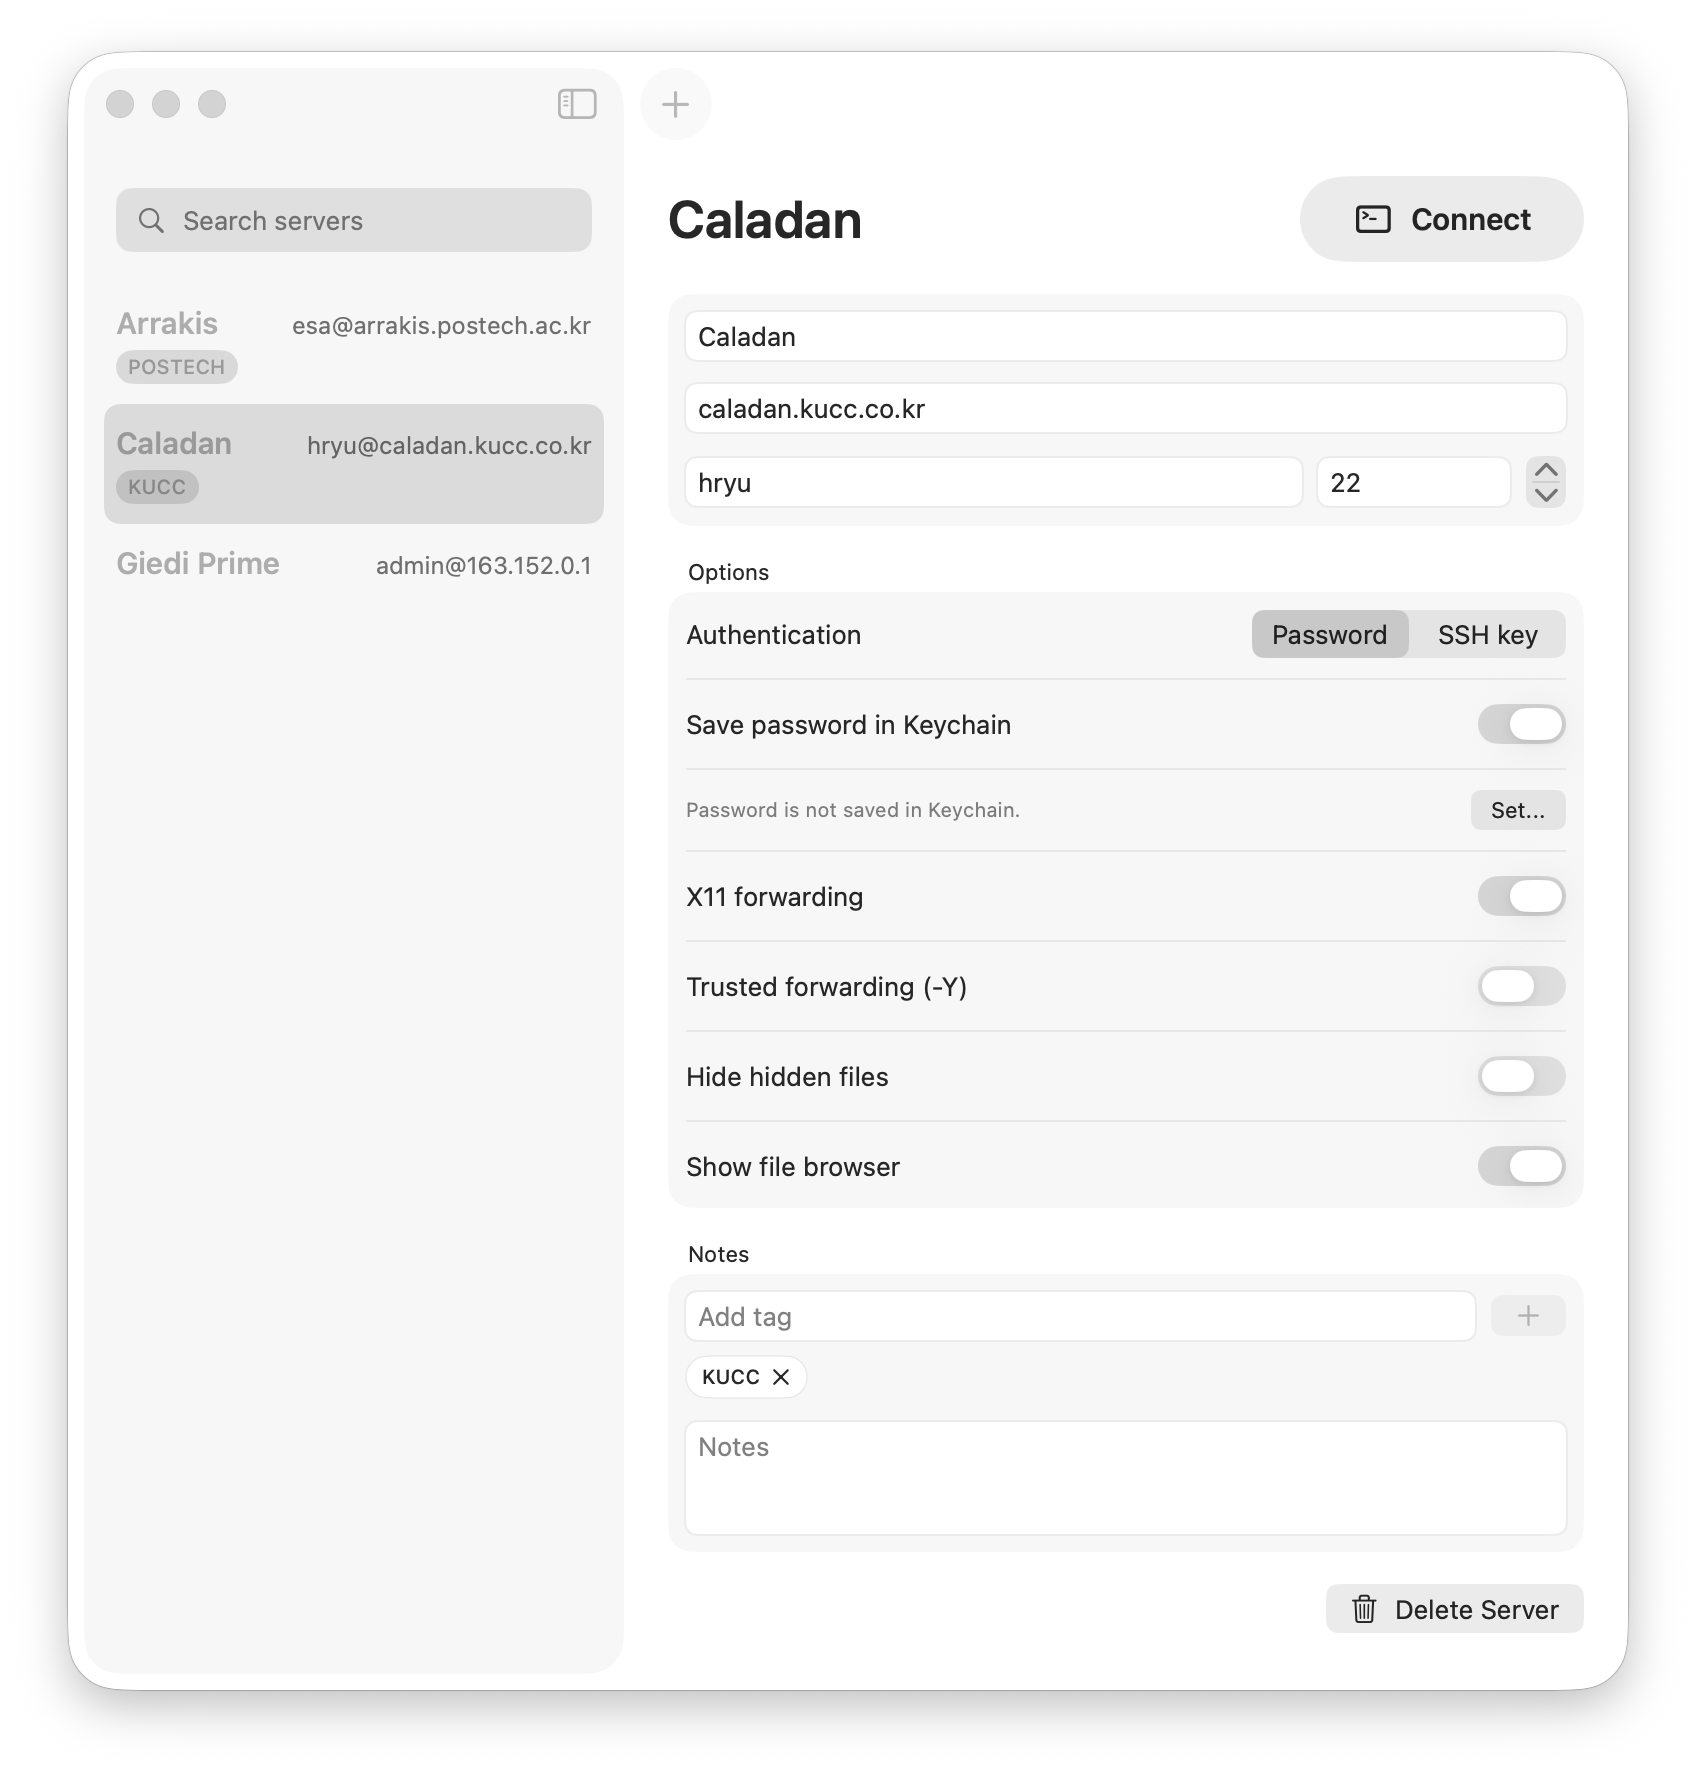
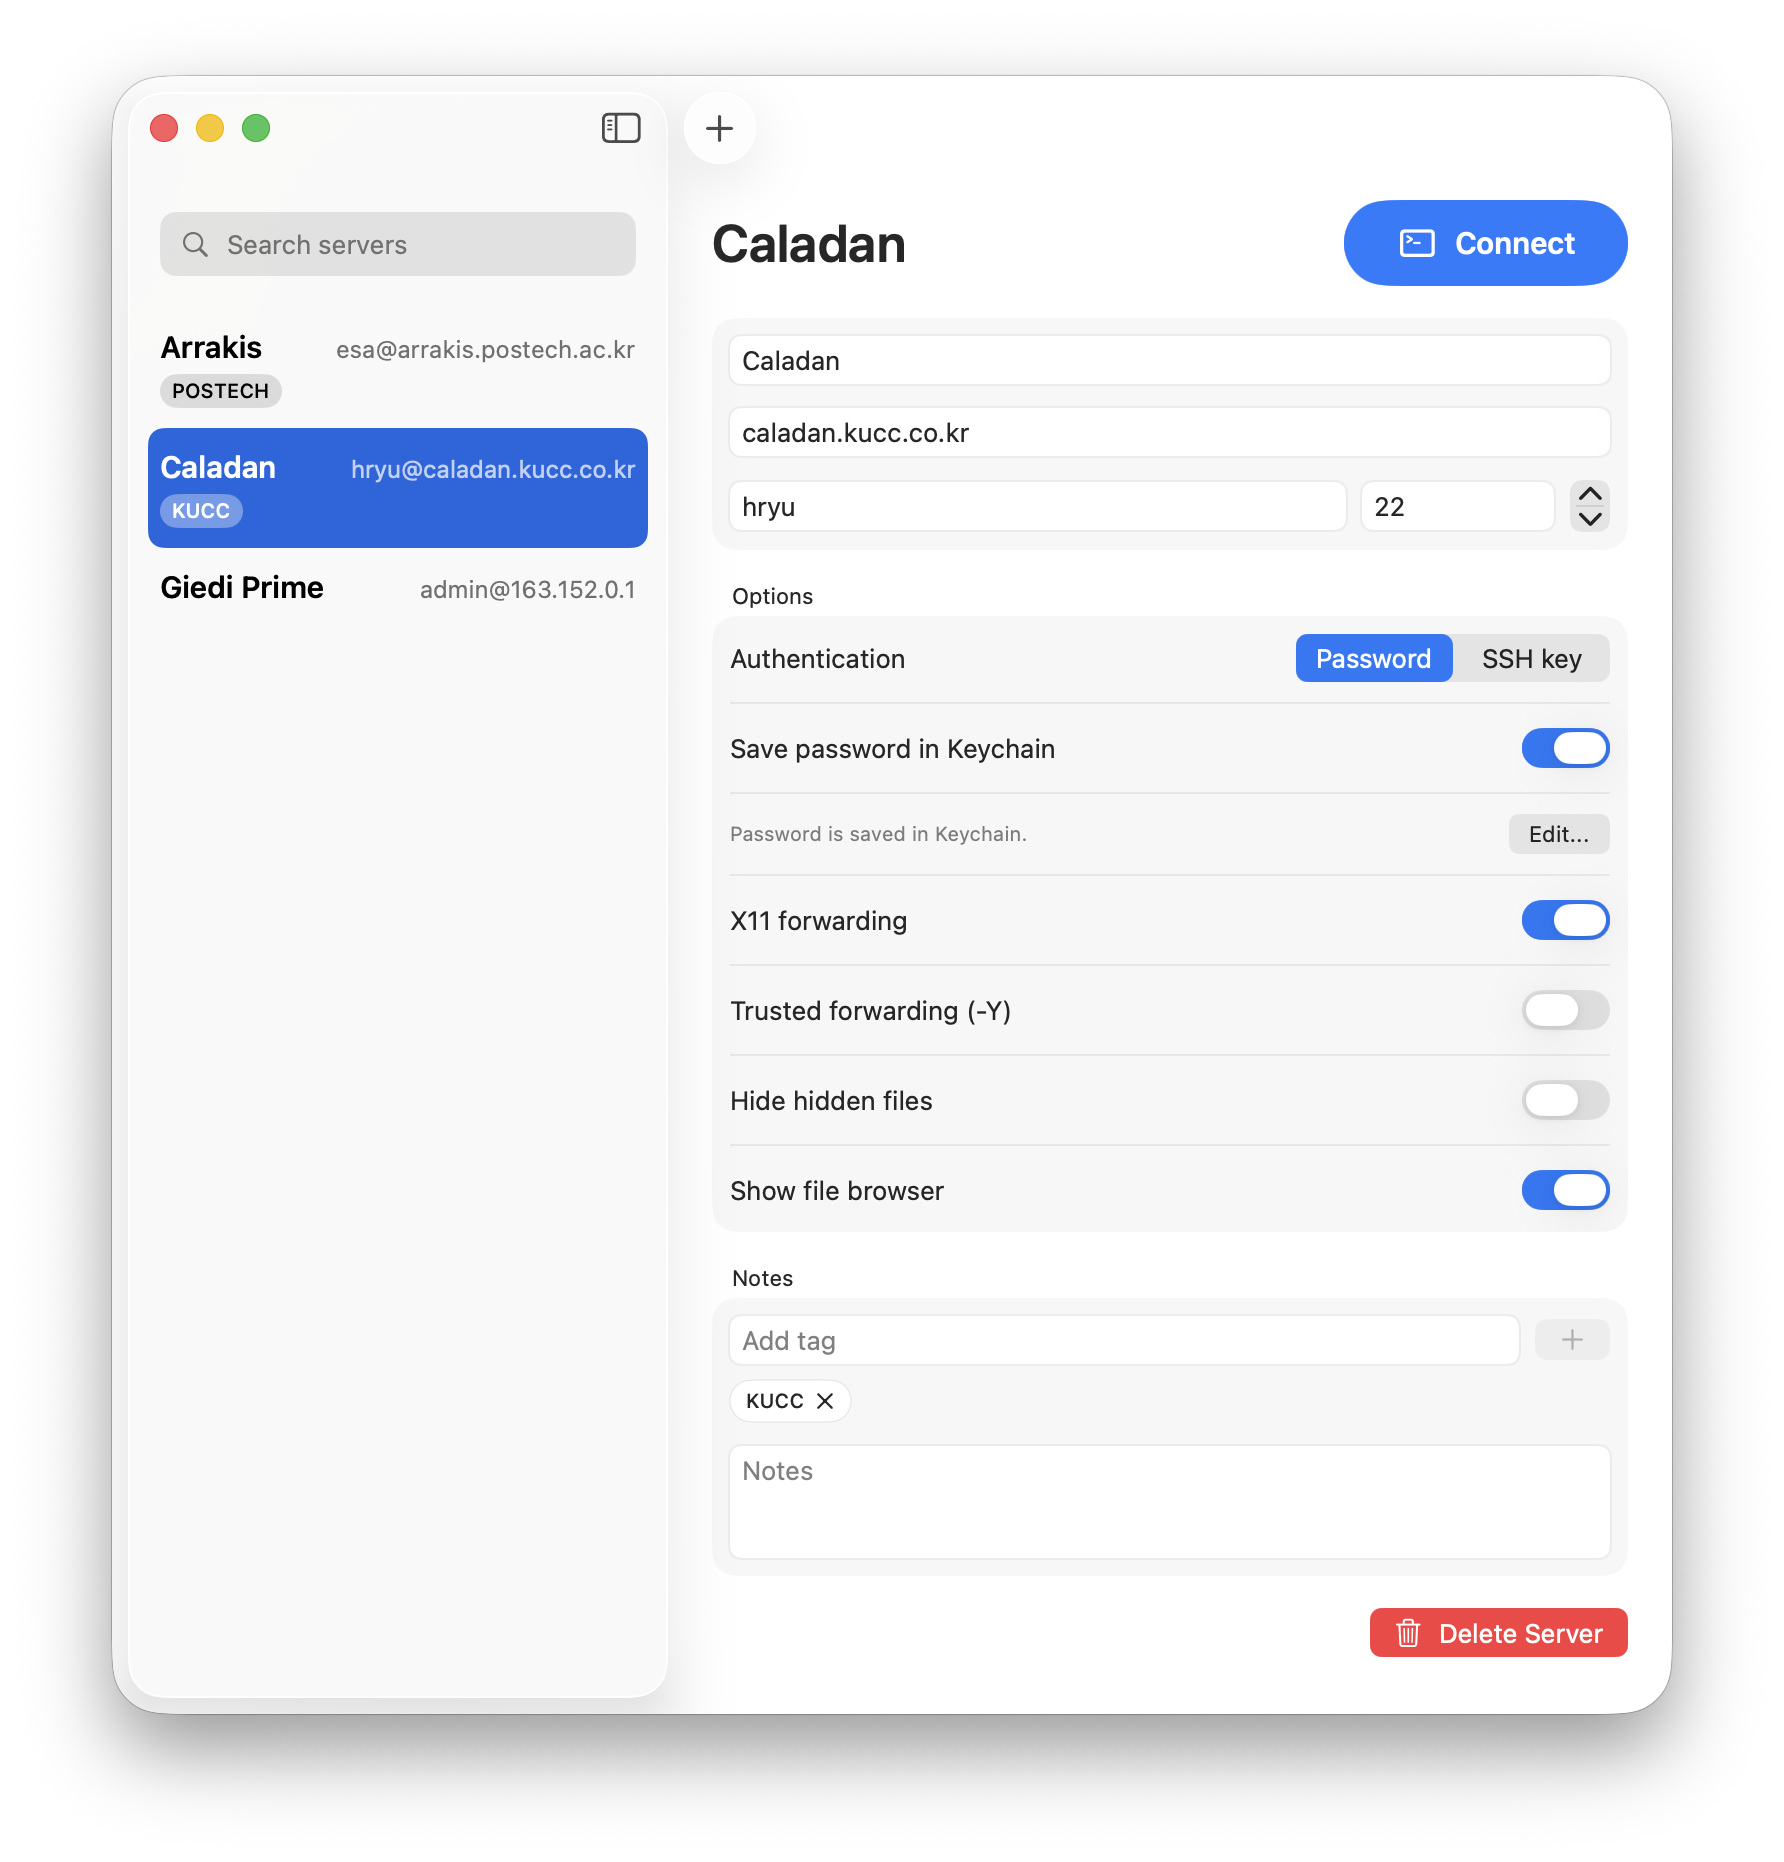
Update README image and size

diff --git a/README.md b/README.md
@@ -2,7 +2,7 @@
 
 A simple, free SSH client for macOS with a lightweight terminal-focused workflow and easy file transfers.
 
-<img src="./Screenshots/main1.png">
+<img src="./Screenshots/main1.png" width="780">
 
 ## Install
 
